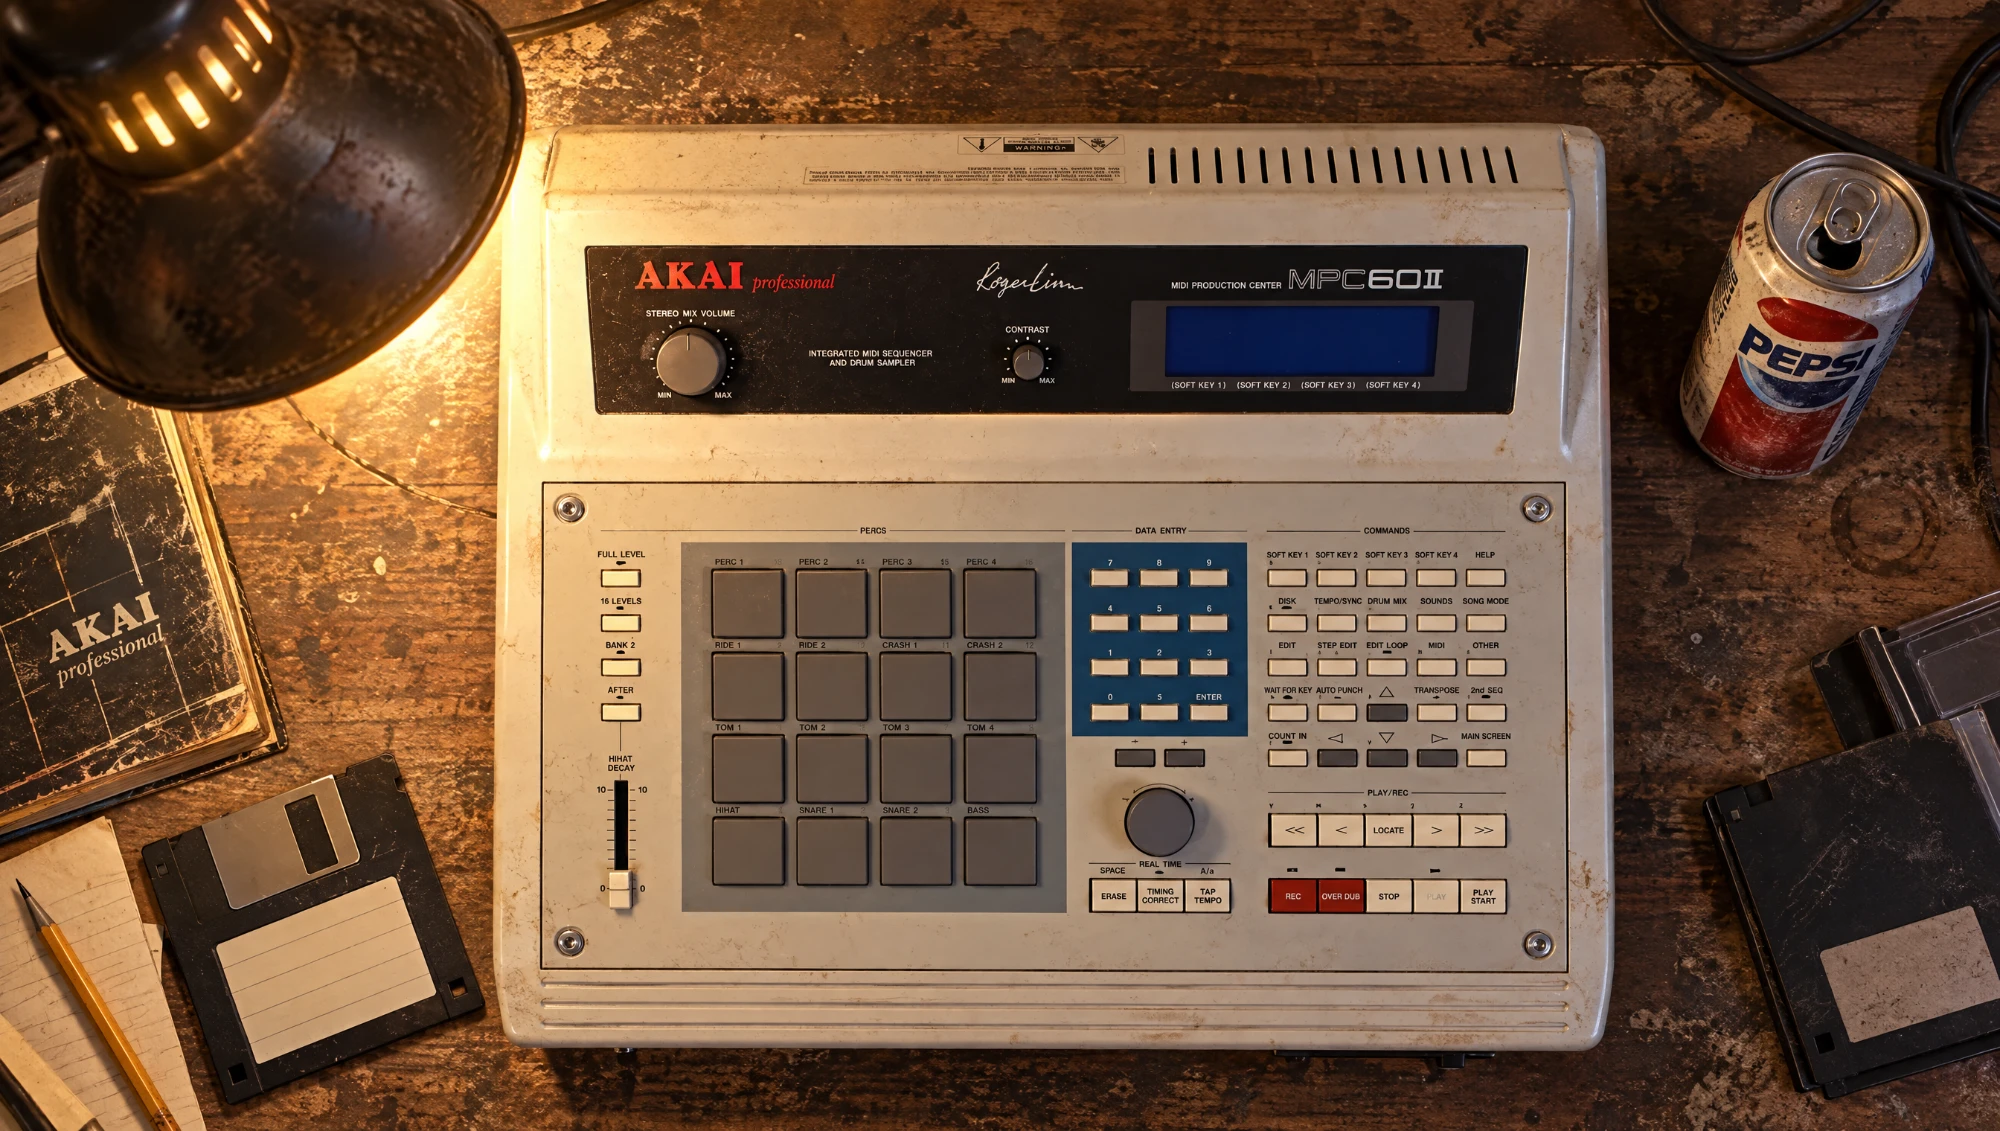
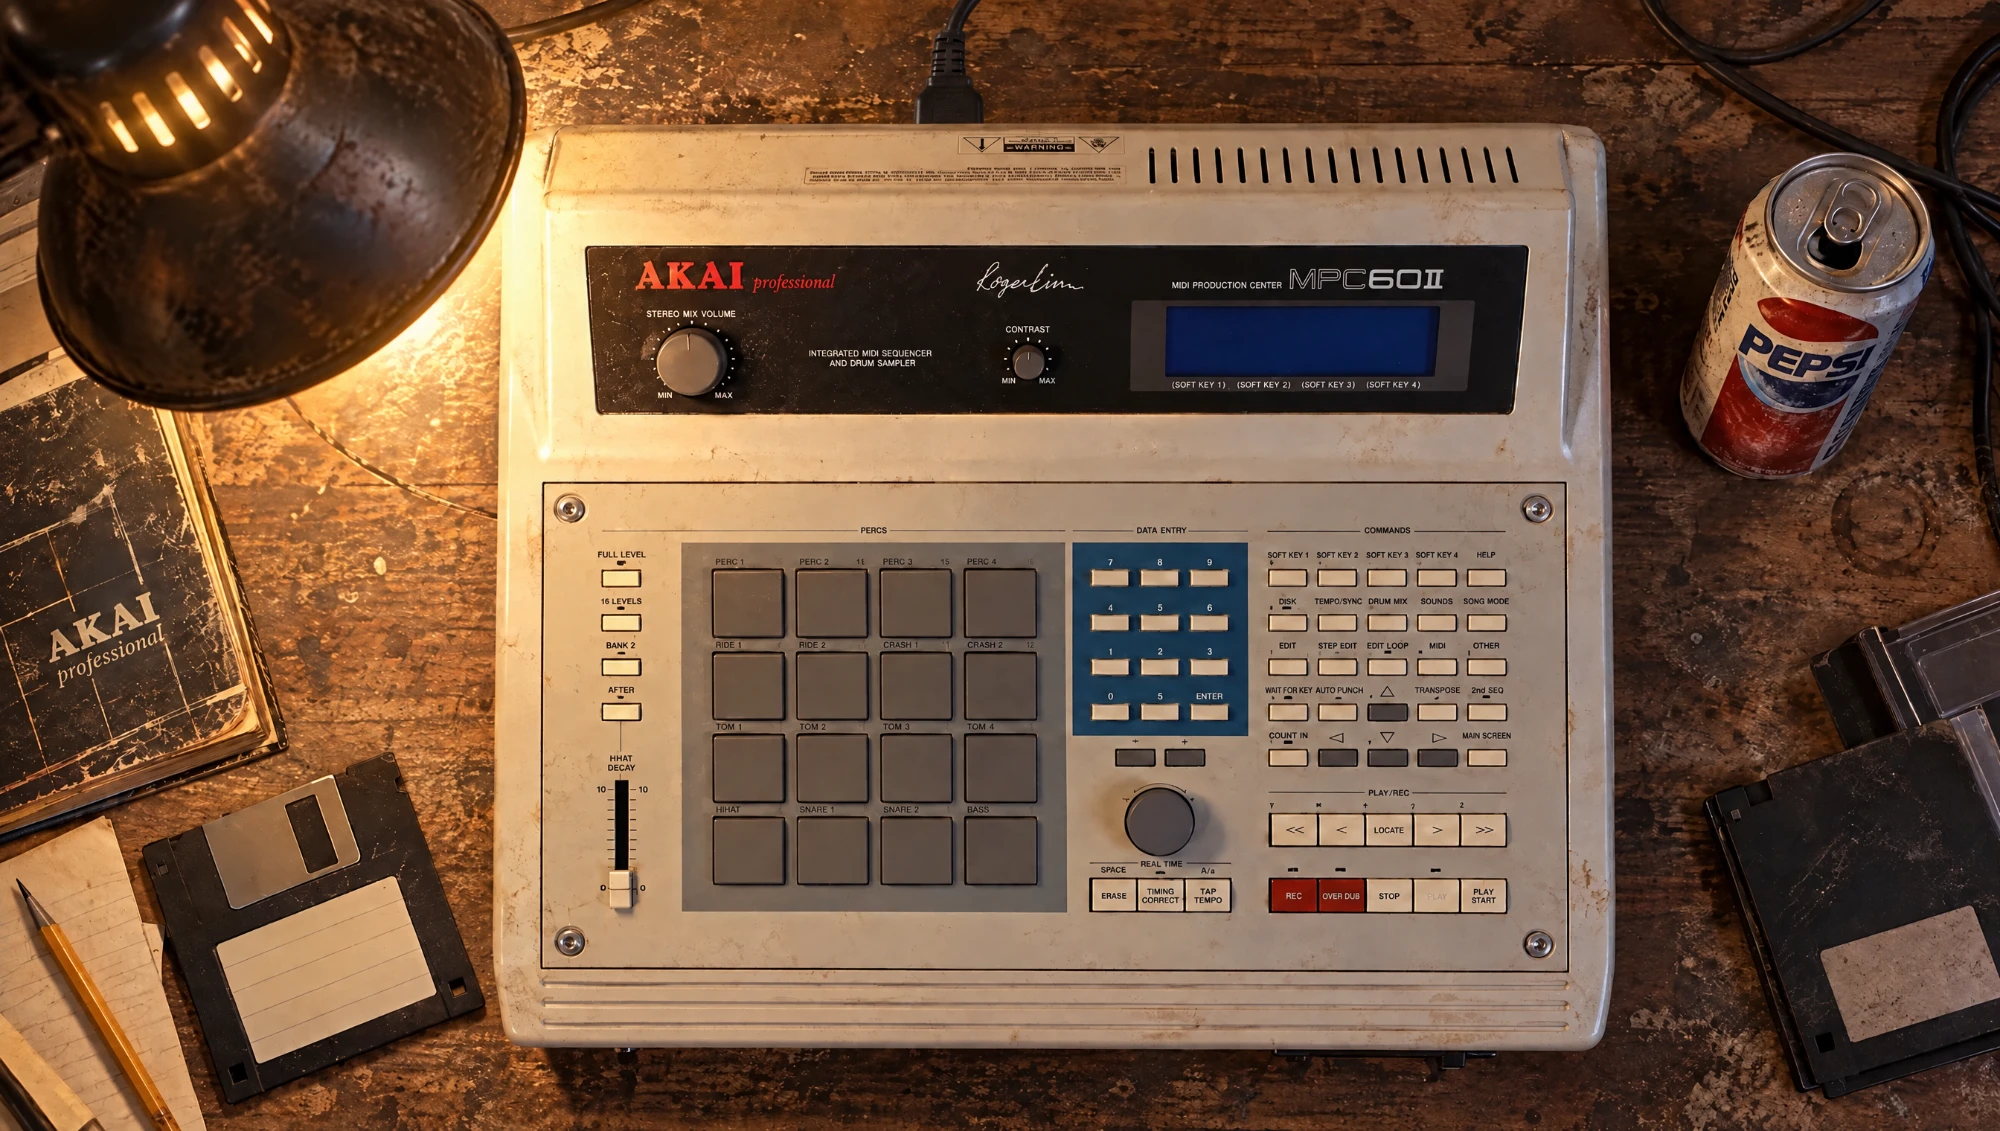
MPC maker: 16:9 desk scene now has the power cord at the back

diff --git a/mpc.js b/mpc.js
@@ -487,7 +487,7 @@ function wire(){const sel=$q('#mBeat');sel.innerHTML='<option value="">Choose a 
 window.mpcOpen=async function(){css();root=document.getElementById('mpcmk');root.classList.add('on');
  if(!mounted){root.innerHTML='<div class="pn"><div class="msg">Loading the MPC...</div></div>';
   try{await loadS('mpcdetect.js?v=10');await loadS('mpcyt.js?v=8');if(!document.querySelector('link[data-mpc]')){await new Promise(res=>{const l=document.createElement('link');l.rel='stylesheet';l.href=FONT_LINK;l.dataset.mpc='1';l.onload=res;l.onerror=res;document.head.appendChild(l);setTimeout(res,5000)})}
-   await Promise.all(["40px Anton","600 40px Oswald","30px VT323","700 40px Caveat","40px Reenie Beanie"].map(f=>document.fonts.load(f).catch(()=>{})));IMG=await loadImg('mpc/mpc60.webp');CUT=await loadImg('mpc/mpc60_cut.webp');if(!IMG||!CUT)throw new Error('photo');DESKS.h=await loadImg('mpc/desk.webp');DESKS.v=await loadImg('mpc/desk_v.webp');prepHands(await loadImg('mpc/hand_r.webp'),await loadImg('mpc/hand_l.webp'));DESKBG.h=await loadImg('mpc/bg_h.webp');DESKBG.v=await loadImg('mpc/bg_v.webp');WARM={cut:warmVer(CUT),photo:warmVer(IMG)};sampleColors()}
+   await Promise.all(["40px Anton","600 40px Oswald","30px VT323","700 40px Caveat","40px Reenie Beanie"].map(f=>document.fonts.load(f).catch(()=>{})));IMG=await loadImg('mpc/mpc60.webp');CUT=await loadImg('mpc/mpc60_cut.webp');if(!IMG||!CUT)throw new Error('photo');DESKS.h=await loadImg('mpc/desk.webp?v=2');DESKS.v=await loadImg('mpc/desk_v.webp');prepHands(await loadImg('mpc/hand_r.webp'),await loadImg('mpc/hand_l.webp'));DESKBG.h=await loadImg('mpc/bg_h.webp?v=1');DESKBG.v=await loadImg('mpc/bg_v.webp?v=1');WARM={cut:warmVer(CUT),photo:warmVer(IMG)};sampleColors()}
   catch(e){root.innerHTML='<div class="pn"><div class="msg">The MPC did not load. Refresh the page.</div></div>';return}
   try{const {data}=await sb.from('beats').select('id,title,bpm,musical_key,preview_path,slug,tags').order('sort_order',{ascending:true}).order('created_at',{ascending:false});beats=(data||[]).filter(b=>b.preview_path)}catch(e){beats=[]}
   ST=load();if(!ST.th)ST.th={seed:1,pal:'',fmt:'h'};if(!ST.yt.v)ST.yt.v=0;if(!ST.tape)ST.tape=defaults().tape;if(!ST.eng)ST.eng=defaults().eng;if(!ST.smoke)ST.smoke=defaults().smoke;if(!ST.hands)ST.hands=defaults().hands;S=null;root.innerHTML=html();wire();size();ytRender();mounted=true;drawNow();if(ST.beat&&beats.some(b=>String(b.id)===String(ST.beat)))pick(ST.beat)}

diff --git a/index.html b/index.html
@@ -1447,7 +1447,7 @@ async function boRender(){
  document.getElementById('bo2b').style.display='none';document.getElementById('bo2c').style.display='none';
  if(window.emailClose)emailClose();if(window.showMakerClose)showMakerClose();if(window.mpcClose)mpcClose();
  if(tab==='email'){document.querySelector('#bo .bo2').style.display='none';if(window.studioClose)studioClose();try{if(!window.emailOpen)await loadScript('email.js?v=4');await emailOpen()}catch(e){toast('EMAIL STUDIO FAILED TO LOAD')}return}
- if(tab==='mpc'){document.querySelector('#bo .bo2').style.display='none';if(window.studioClose)studioClose();try{if(!window.mpcOpen)await loadScript('mpc.js?v=34');await mpcOpen()}catch(e){toast('MPC FAILED TO LOAD')}return}
+ if(tab==='mpc'){document.querySelector('#bo .bo2').style.display='none';if(window.studioClose)studioClose();try{if(!window.mpcOpen)await loadScript('mpc.js?v=36');await mpcOpen()}catch(e){toast('MPC FAILED TO LOAD')}return}
  if(tab==='show'){document.querySelector('#bo .bo2').style.display='none';if(window.studioClose)studioClose();try{if(!window.MZShow)await loadScript('show.js?v=15');if(!window.MZShowFX)await loadScript('showfx.js?v=3');if(!window.showMakerOpen)await loadScript('showmaker.js?v=16');await showMakerOpen()}catch(e){toast('SHOW MAKER FAILED TO LOAD')}return}
  if(vid){try{await loadStudio();await studioOpen()}catch(e){toast('VIDEO STUDIO FAILED TO LOAD')}return}
  if(window.studioClose)studioClose();
